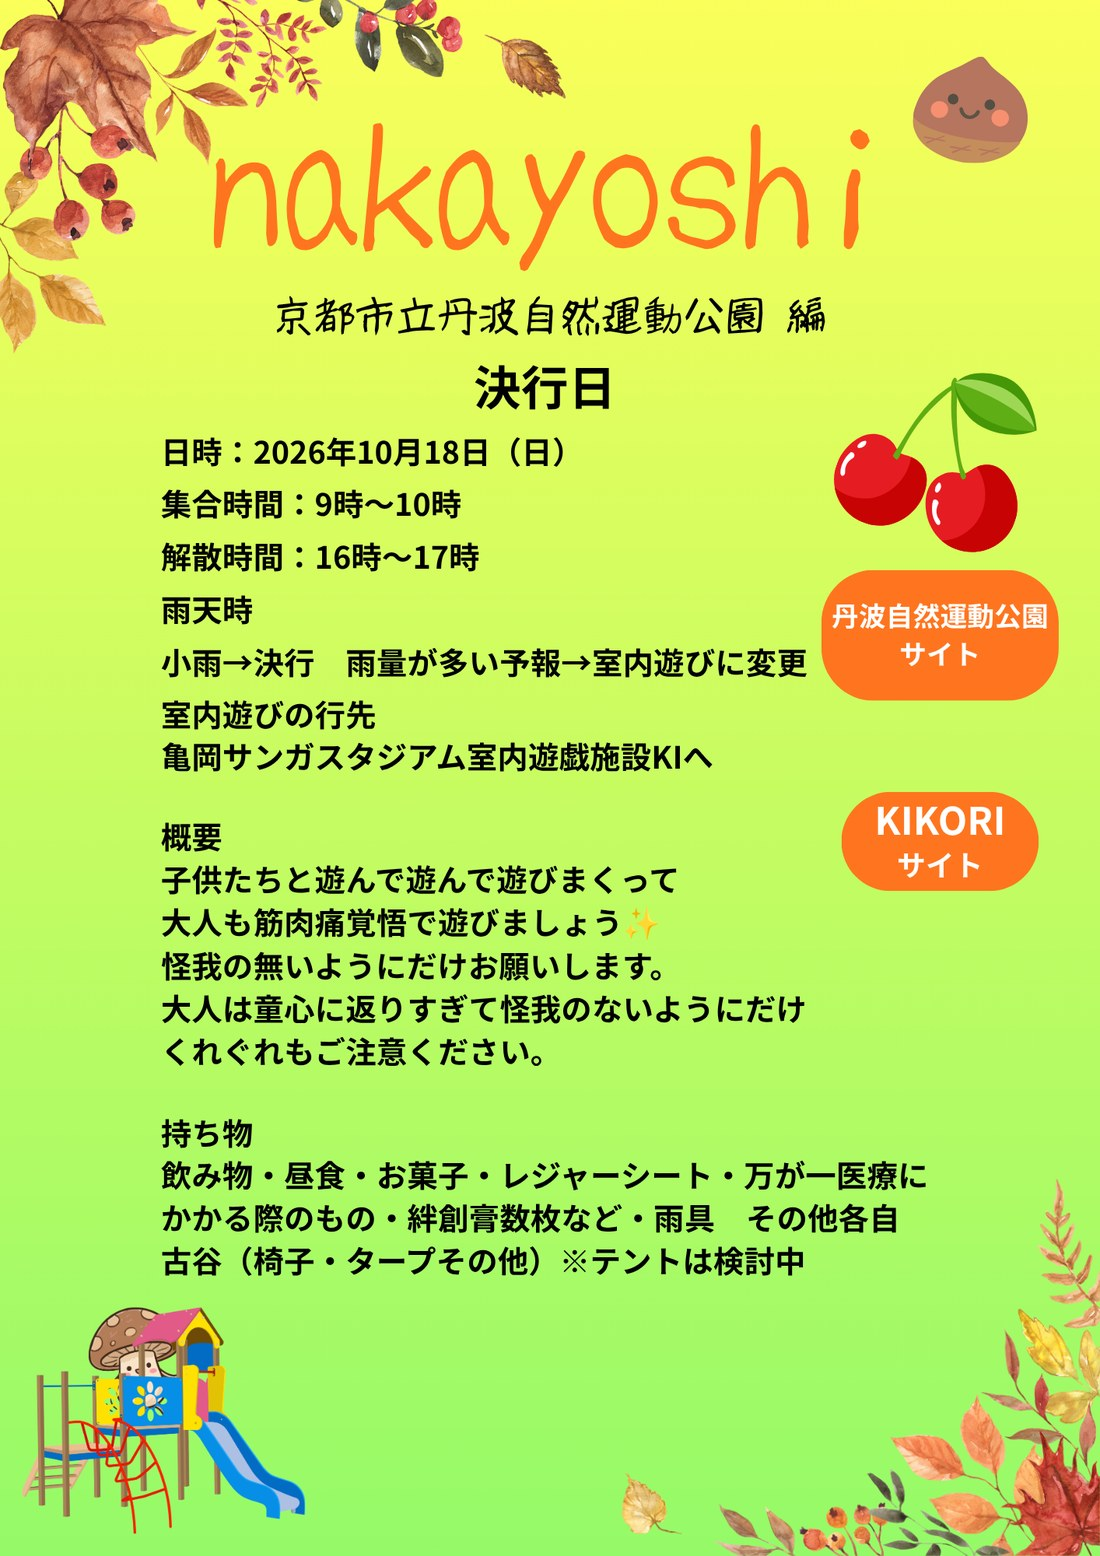
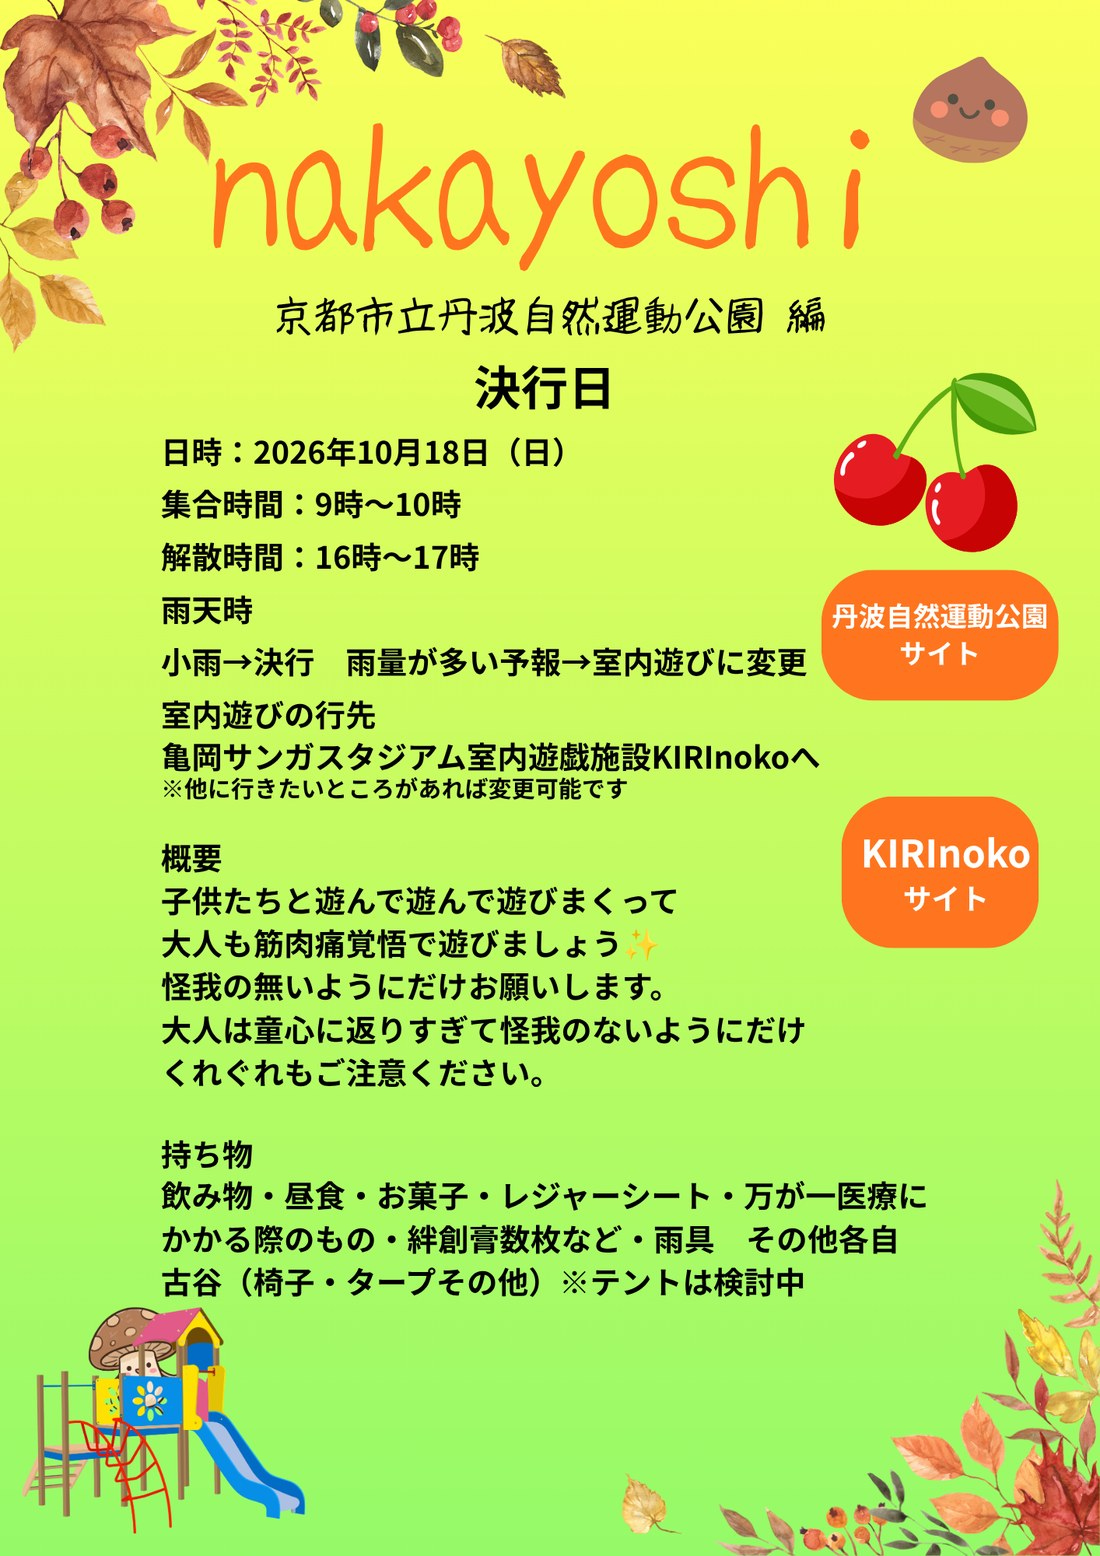
Add files via upload

diff --git a/nakayoshi.html b/nakayoshi.html
@@ -151,7 +151,7 @@
   .spot.s6{left:59.5%;top:44.3%;width:12.5%;height:2.1%}
   .spot.s7{left:59.5%;top:47.3%;width:12.5%;height:2.1%}
   .spot.s8{left:14.8%;top:58.7%;width:12.5%;height:2.1%}
-  .spot.s9{left:41.5%;top:57.5%;width:11.5%;height:4.3%}
+  .spot.s9{left:40.5%;top:56.8%;width:12.5%;height:5.7%}
   .spot.s10{left:66.5%;top:57.8%;width:12.5%;height:2.1%}
   .spot.s11{left:60.0%;top:62.6%;width:10.5%;height:2.1%}
   .spot.s12{left:52.5%;top:68.3%;width:16.0%;height:2.1%}
@@ -179,7 +179,7 @@
   .hot:active{transform:scale(.97)}
   /* 位置は画像から実測した値 */
   .hot.park{left:74.68%;top:36.65%;width:21.50%;height:8.30%}
-  .hot.kiri{left:76.52%;top:50.90%;width:17.82%;height:6.30%}
+  .hot.kiri{left:76.52%;top:51.20%;width:17.82%;height:9.65%}
 
   /* 押せることが分かるよう、最初だけそっと光る */
   @keyframes pulse{
@@ -279,7 +279,7 @@
   <div class="sheet" id="sh1">
     <div class="sheet-in">
       <img src="nakayoshi-1.jpg"
-           alt="nakayoshi 京都市立丹波自然運動公園 編。決行日 2026年10月18日（日）。集合9時〜10時、解散16時〜17時。小雨は決行、雨量が多い予報なら亀岡サンガスタジアム室内遊戯施設へ変更。持ち物は飲み物・昼食・お菓子・レジャーシート・絆創膏・雨具など。">
+           alt="nakayoshi 京都市立丹波自然運動公園 編。決行日 2026年10月18日（日）。集合9時〜10時、解散16時〜17時。小雨は決行、雨量が多い予報なら亀岡サンガスタジアム室内遊戯施設KIRInokoへ変更（他の行先への変更も可能）。持ち物は飲み物・昼食・お菓子・レジャーシート・絆創膏・雨具など。">
       <button type="button" class="hot park" onclick="togglePark()"
               aria-label="丹波自然運動公園のサイトを開く">丹波自然運動公園サイト</button>
       <a class="hot kiri" href="https://kirinoko.com/" target="_blank" rel="noopener"
